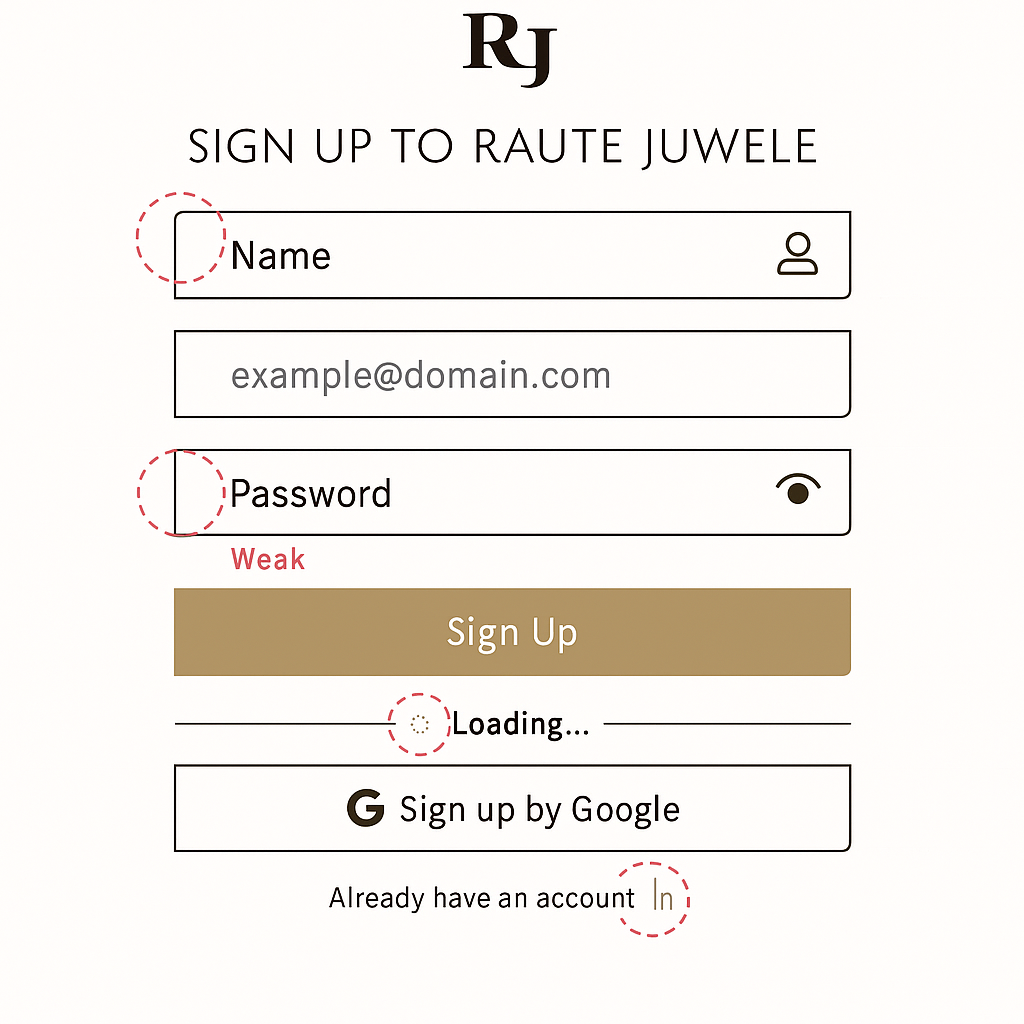
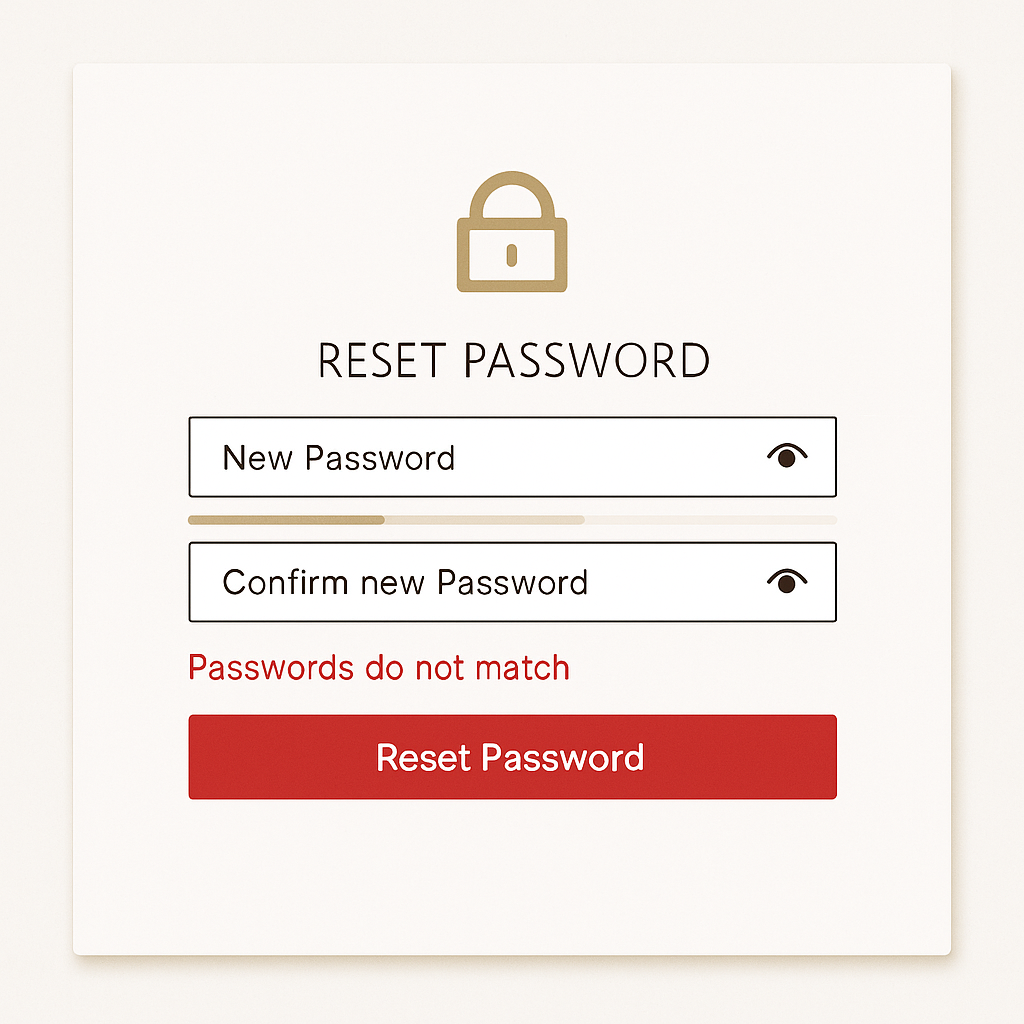
Processing Redundancy

diff --git a/project/routes/feedback.py b/project/routes/feedback.py
@@ -7,12 +7,17 @@ from components.Suggestions_Component.suggestions import Suggestions
 from database.figma_features_repository import FigmaFeaturesRepository
 from database.suggestions_repository import SuggestionsRepository
 from utils.helpers import clean_prefix
+import hashlib
 
 class Feedback:
     def __init__(self):
         self.figma_repository = FigmaFeaturesRepository()
-        self.suggestions_repository = SuggestionsRepository()
+        # self.suggestions_repository = SuggestionsRepository()
         self.feedback_repository = FeedbackRepository()
+
+    def _generate_data_hash(self, data):
+        """Generate a consistent hash for the design data"""
+        return hashlib.md5(str(sorted(data.items())).encode()).hexdigest()
 
     def process_elements(self):
         if request.method == 'OPTIONS':
@@ -32,9 +37,30 @@ class Feedback:
         elements = data.get('elements', [])
         imageDataUrl = data.get("imageDataUrl")
 
-
         if not elements:
             return jsonify({"error": "No elements found"}), 400
+
+        # Create hash of current data for comparison
+        current_hash = self._generate_data_hash({
+            "elements": elements,
+            "frame_info": frame_info,
+            "imageDataUrl": imageDataUrl
+        })
+
+        # Check if we have cached results for this exact data
+        cached_feedback = self.feedback_repository.get_feedback_by_hash(design_name, frame_name, current_hash)
+        if cached_feedback:
+            print("Returning cached feedback for unchanged design")
+            return jsonify({
+                "message": "Design processed successfully! (cached results)",
+                "status": 200,
+                "cached": True,
+                "error_prevention_results": cached_feedback.get("error_prevention_results", {}),
+                "consistency_results": cached_feedback.get("consistency_results", {}),
+                "error_handling_results": cached_feedback.get("error_handling_results", {}),
+                "minimalist_results": cached_feedback.get("minimalist_results", {}),
+                "recognition_results": cached_feedback.get("recognition_results", [])
+            }), 200
 
         elements_df = pd.DataFrame(elements)
 
@@ -47,23 +73,22 @@ class Feedback:
                 "frame_id": frame_id,
                 "screen_size": frame_info,
                 "elements": elements,
-                "image64_string": imageDataUrl
+                "image64_string": imageDataUrl,
+                "data_hash": current_hash
             }
 
             recognition_feedback_list = []
 
-            print("Attempting to insert data into MongoDB...")
+            print("Processing new/changed design...")
             insert_result = self.figma_repository.update_or_insert_frame(feature_data)
             self.suggestions_repository.save_original_image_id(feature_data)
 
-            # 3. Get the image FROM THE CORRECT REPOSITORY
+            # Get the image for suggestions
             frame_image = self.figma_repository.get_image_by_frame_id(
                 feature_data["design_name"],
                 feature_data["frame_id"]
             )
-            print("frame image:")
-            print(frame_image)
-            print("Data inserted successfully.")
+            
             if frame_image:
                 suggestions = Suggestions(frame_image, feature_data)
                 suggestions.generate_suggestions()
@@ -92,19 +117,6 @@ class Feedback:
 
             elements_db = pd.DataFrame(elements_list)
 
-            designs_for_evaluation = [{"elements": elements_db}]
-
-            output_data = {
-                "screen_size": frame_info,
-                "elements": elements,
-            }
-
-            frame_data = latest_saved_data.get("frames", [])
-            if frame_data:
-                elements_df = pd.DataFrame(frame_data[0].get("elements", []))
-            else:
-                return jsonify({"error": "No elements found in the retrieved frame data"}), 500
-
             screen_width = frame_info["screen_width"]
             screen_height = frame_info["screen_height"]
 
@@ -120,8 +132,17 @@ class Feedback:
             minimalist_results, minimalist_score = minimalist_evaluator.evaluate_rule({"elements": elements}, screen_width, screen_height)
             error_handling_results = error_handling_evaluator.evaluate_rule(elements_df)
             error_prevention_results = error_prevention_evaluator.evaluate_rule(elements_db)
+            
             for element in elements:
-                recognition_results = recognition_evaluator.evaluate_rule(element, element["type"], screen_width, screen_height, element["isIconLabeled"], element["width"], element["height"])
+                recognition_results = recognition_evaluator.evaluate_rule(
+                    element, 
+                    element["type"], 
+                    screen_width, 
+                    screen_height, 
+                    element["isIconLabeled"], 
+                    element["width"], 
+                    element["height"]
+                )
                 if recognition_results:
                     recognition_feedback = {
                         "element_id": element["id"],
@@ -151,7 +172,7 @@ class Feedback:
                         "feedback": clean_prefix(value) if isinstance(value, str) else str(value)
                     })
             elif isinstance(minimalist_results, list):
-                for i, item in enumerate(minimalist_results):
+                for item in minimalist_results:
                     if isinstance(item, str):
                         cleaned_item = clean_prefix(item)
                         if "white space" in cleaned_item.lower():
@@ -179,28 +200,7 @@ class Feedback:
                     "feedback": clean_prefix(str(minimalist_results))
                 })
 
-            # Prepare human-readable feedback
-            consistency_feedback = {
-                "ColorConsistency": f"Color consistency is {consistency_results.get('ColorConsistency', 0)}%.",
-                "AlignmentConsistency": f"Alignment consistency is {consistency_results.get('AlignmentConsistency', 0)}%.",
-                "SizeProportionality": f"Size proportionality is {consistency_results.get('SizeProportionality', 0)}%.",
-                "Feedback": consistency_results.get('Feedback', {})
-            }
-
-            error_feedback = {
-                "ErrorPreventionScore": f"Error Prevention Score: {error_prevention_results.get('ErrorPreventionScore', 0)}%.",
-                "ValidationIssues": error_prevention_results.get("ValidationIssues", []),
-                "ConfirmationIssues": error_prevention_results.get("ConfirmationIssues", []),
-                "Feedback": error_prevention_results.get("Feedback", {})
-            }
-
-            error_handling_feedback = {
-                "ErrorHandlingScore": f"Error Handling Score: {error_handling_results.get('ErrorHandlingScore', 0)}%.",
-                "ErrorIssues": error_handling_results.get("ErrorIssues", []),
-                "RecoveryIssues": error_handling_results.get("RecoveryIssues", []),
-                "Feedback": error_handling_results
-            }
-
+            # Prepare feedback data
             minimalist_feedback = {
                 "Feedback": cleaned_minimalist_feedback,
             }
@@ -210,7 +210,9 @@ class Feedback:
                 "consistency_results": consistency_results,
                 "error_handling_results": error_handling_results,
                 "minimalist_results": minimalist_feedback,
+                "data_hash": current_hash
             }
+            
             if recognition_feedback_list:
                 feedback_data["recognition_results"] = recognition_feedback_list
 
@@ -220,17 +222,35 @@ class Feedback:
             if update_result.matched_count == 0:
                 print("Error updating feedback in MongoDB.")
                 return jsonify({"error": "Failed to update feedback in database"}), 500
-            print("Feedback saved successfully.")
+            
+            print("Feedback processed and saved successfully.")
 
             # Prepare final response
             response_data = {
                 "message": "Design processed successfully!",
                 "status": 200,
-                "error_prevention_results": error_feedback,
-                "consistency_results": consistency_feedback,
-                "error_handling_results": error_handling_feedback,
+                "cached": False,
+                "error_prevention_results": {
+                    "ErrorPreventionScore": f"Error Prevention Score: {error_prevention_results.get('ErrorPreventionScore', 0)}%.",
+                    "ValidationIssues": error_prevention_results.get("ValidationIssues", []),
+                    "ConfirmationIssues": error_prevention_results.get("ConfirmationIssues", []),
+                    "Feedback": error_prevention_results.get("Feedback", {})
+                },
+                "consistency_results": {
+                    "ColorConsistency": f"Color consistency is {consistency_results.get('ColorConsistency', 0)}%.",
+                    "AlignmentConsistency": f"Alignment consistency is {consistency_results.get('AlignmentConsistency', 0)}%.",
+                    "SizeProportionality": f"Size proportionality is {consistency_results.get('SizeProportionality', 0)}%.",
+                    "Feedback": consistency_results.get('Feedback', {})
+                },
+                "error_handling_results": {
+                    "ErrorHandlingScore": f"Error Handling Score: {error_handling_results.get('ErrorHandlingScore', 0)}%.",
+                    "ErrorIssues": error_handling_results.get("ErrorIssues", []),
+                    "RecoveryIssues": error_handling_results.get("RecoveryIssues", []),
+                    "Feedback": error_handling_results
+                },
                 "minimalist_results": minimalist_feedback,
             }
+            
             if recognition_feedback_list:
                 response_data["recognition_results"] = recognition_feedback_list
 

diff --git a/project/database/feedback_repository.py b/project/database/feedback_repository.py
@@ -3,7 +3,15 @@ from database.base_repository import BaseRepository
 class FeedbackRepository(BaseRepository):
     def __init__(self):
         super().__init__("features")
-        
+    
+    def get_feedback_by_hash(self, design_name, frame_name, data_hash):
+        """Retrieve feedback by design name, frame name and data hash"""
+        return self.collection.find_one({
+            "design_name": design_name,
+            "frame_name": frame_name,
+            "data_hash": data_hash
+        })
+            
     def get_feedback(self, design_name, frame_name):
         """Retrieve feedback for a specific design frame"""
         return self.collection.find_one({
